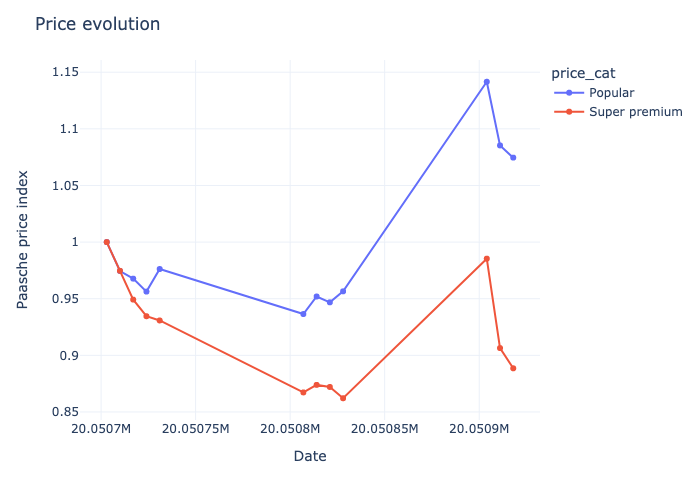
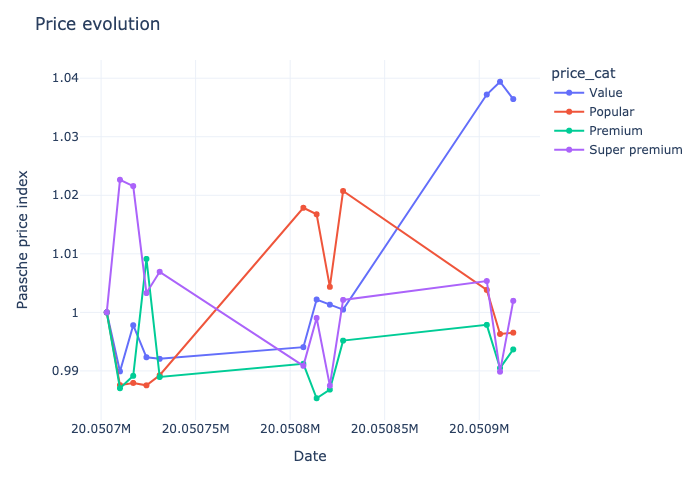
markdown files and playing around with pyblp

diff --git a/empirical_ps/plotting.py b/empirical_ps/plotting.py
@@ -5,34 +5,21 @@ import pyblp
 pio.templates.default = "plotly_white"
 import pandas as pd
 import numpy as np
+from plotly.subplots import make_subplots
+import plotly.graph_objects as go
 
 def plot_all(df):
-
-	numbots_by_prod_tot = df[["prodname", "numbot"]].groupby(["prodname"]).sum().sort_values("numbot", ascending = False).reset_index()
-	n_prods = numbots_by_prod_tot.shape[0]
-
-	fig = px.bar(numbots_by_prod_tot, x = "prodname", y = "numbot", title = f"Long tail of wines with few sales, and a few super sellers <br><sup>Total number of products: {n_prods}</sup>").update_layout(xaxis_title = "Wine variety", yaxis_title = "Total number of bottles sold in data")
-	fig.update_xaxes(visible=True, showticklabels=False)
-	fig.write_image("figures/bottles_by_prod.png")
-
-	# Volumes
-	date_store = df[["numbot", "storenum", "date"]].\
-	groupby(["date", "storenum"]).sum().reset_index()
-
-	fig = px.box(date_store, x = "date", y = "numbot").\
-	update_layout(xaxis_title = "Date", yaxis_title = "Bottles sold")
-	
-	fig.write_image("figures/bottles_time.png")
-
+	# Price distribution
+	df["price"] = df["p"]
+	fig_lnp = px.histogram(df, x="lnprice").\
+	update_layout(xaxis_title = "Log Price", yaxis_title = "Count")
+	fig_p = px.histogram(df, x="price").\
+	update_layout(xaxis_title = "Price", yaxis_title = "Count")
+	fig_lnp.write_image("figures/log_price_hist.png")
+	fig_p.write_image("figures/price_hist.png")
 
 	# Price trend
-	df["price"] = df["p"] * df["fx"]
-	df["lnprice"] = np.log(df["price"])
-	fig = px.histogram(df, x="lnprice").\
-	update_layout(xaxis_title = "Log Price", yaxis_title = "Count", title = "Two broad price categories")
-	
-	fig.write_image("figures/log_price_hist.png")
-	df["price_cat"] = pd.cut(df.lnprice, bins = 2, labels = ["Popular", "Super premium"])
+	df["price_cat"] = pd.cut(df.price, bins = 4, labels = ["Value", "Popular", "Premium", "Super premium"])
 	df["sales"] = df["price"] * df["numbot"]
 	df_time_price = df.groupby(["date", "price_cat"]).sum()
 	df_time_price["avg_price"] = df_time_price["sales"] / df_time_price["numbot"]
@@ -46,6 +33,25 @@ def plot_all(df):
 	fig = px.line(df_time_price, x="date", y="avg_price_index", color='price_cat', markers = True).\
 	update_layout(xaxis_title = "Date", yaxis_title = "Paasche price index", title = "Price evolution")
 	fig.write_image("figures/price_index.png")
+
+	# Quantities
+
+	numbots_by_prod_tot = df[["prodname", "numbot"]].groupby(["prodname"]).sum().sort_values("numbot", ascending = False).reset_index()
+	n_prods = numbots_by_prod_tot.shape[0]
+
+	fig = px.bar(numbots_by_prod_tot, x = "prodname", y = "numbot", title = f"Long tail of wines with few sales, and a few super sellers <br><sup>Total number of products: {n_prods}</sup>").update_layout(xaxis_title = "Wine variety", yaxis_title = "Total number of bottles sold in data")
+	fig.update_xaxes(visible=True, showticklabels=False)
+	fig.write_image("figures/bottles_by_prod.png")
+
+	# Volumes
+	date_store = df.reset_index()[["numbot", "storenum", "date"]].\
+	groupby(["date", "storenum"]).sum().reset_index()
+
+	fig = px.box(date_store, x = "date", y = "numbot").\
+	update_layout(xaxis_title = "Date", yaxis_title = "Bottles sold")
+	
+	fig.write_image("figures/bottles_time.png")
+	
 	return
 
 

diff --git a/empirical_ps/estimate_funcs.py b/empirical_ps/estimate_funcs.py
@@ -1,0 +1,43 @@
+df["product_ids"] = df["idcode"]
+df["prices"] = df["price"]
+df["shares"] = df["mshare"]
+df["market_ids"] = df.index.get_level_values('date').astype(str) +"_"+ df.index.get_level_values('storenum').astype(str)
+df["demand_instruments0"] = df["price"]
+
+# Specification 3 & 4, product characteristics
+logit_formulation = pyblp.Formulation('prices + proof + variet')
+problem = pyblp.Problem(logit_formulation, df)
+logit_results_characteristics = problem.solve()
+
+
+# Specification 5, fixed effects
+logit_formulation = pyblp.Formulation('prices', absorb='C(product_ids)')
+problem = pyblp.Problem(logit_formulation, df)
+logit_results_fe = problem.solve()
+
+# Specification 6, BLP styled instruments
+df["demand_instruments0"] = df["proof"].groupby(level = [0,1]).sum() - df["proof"]
+df["demand_instruments1"] = df["merlot"].groupby(level = [0,1]).sum() - df["merlot"]
+logit_formulation = pyblp.Formulation('prices')
+problem = pyblp.Problem(logit_formulation, df)
+logit_results_blp = problem.solve()
+
+# Specification 7, countries as nests
+
+df["nesting_ids"] = df["national"]
+groups = df.groupby(["market_ids", "nesting_ids"])
+df["demand_instruments20"] = groups["shares"].transform(np.size)
+nl_formulation = pyblp.Formulation('0 + prices')
+problem = pyblp.Problem(nl_formulation, df)
+nl_results = problem.solve(rho = 0.7)
+
+def extract_estimation_results(results, path):
+	''' Calculate elasticities, markups, marginal costs, and create plots
+	results : a ProblemResults object from pyblp package
+	'''
+	elasticities = results.compute_elasticities()
+	mean_elasticities = results.extract_diagonal_means(elasticities)
+	aggregates = results.compute_aggregate_elasticities(factor=0.1)
+	costs = results.compute_costs() # Note: Either firm IDs or an ownership matrix must have been specified.
+	markups = results.compute_markups(costs=costs)
+	return

diff --git a/empirical_ps/empio_main.py b/empirical_ps/empio_main.py
@@ -15,18 +15,23 @@ import pyblp
 
 # Store x time is a 'market'
 # What about outside option here?
+### TMP ############################################
 
+
+#TMP end ############################################
 # 0. Load data
 
 df = pd.read_excel("data/wine_ps2.xls")
 df = df.dropna()
+df = df.set_index(["idcode", "storenum", "date"])
+
 
 # 1. Descriptive statistics
 # Number of products
 plot_all(df)
 
 # Based on plots, do some data filtration
-df["price"] = df["p"] * df["fx"]
+df["price"] = df["p"] / df["fx"]
 df["lnprice"] = np.log(df["price"])
 df = df[df["lnprice"] < 6]
 
@@ -83,13 +88,13 @@ def berry94_est(X, Y):
 	reg = LinearRegression().fit(X, Y) # Estimate beta and alpha through eq. 14 Berry 1994
 
 	alpha = reg.coef_[price_var_loc]
-	return(alpha)
+	return(alpha, reg.coef_)
 
 X_vars = ["lnprice", "proof", "variet", "doc"]
 X = df.loc[:, df.columns.isin(X_vars)] 
 Y = df.loc[:, "delta_j"]
 
-b94_est = berry94_est(X, Y)
+b94_est, coefs = berry94_est(X, Y)
 np.savetxt("figures/b94_elas.csv", np.expand_dims(b94_est,0))
 
 # 4. Berry 1994, eq 31 (slighly before I think) Implied markups assuming MC are constant.

diff --git a/empirical_ps/main.md b/empirical_ps/main.md
@@ -1,0 +1,46 @@
+# Demand for Wine: Solutions to the Empirical Problem Set for Industrial Organization 2022
+*Solutions by Filip Mellgren*, `filip.mellgren@su.se`
+
+The problem set was solved using `python` and relies on the package `pyblp` by Christopher Conlon and Jeff Gortmaker.
+
+## Descriptive Statistics
+
+Since we want to estimate demand for wine, important variables in the dataset `wine_ps2.dta` include the price variabel `p`, which denotes the nominal price, and the quantity variable `numbot`. The unit of observation are `idcode`, which identifies a wine, `date`, which denotes a unit of time (presumably week), and `storenum`, which is a code identifying an individual store. `numbot` is consequenlty the number of bottles sold of a particular wine in a given store in a given point in time. In total, there are 31798 such observations, although I drop observations with NAs leaving me with 27189 observations. 
+
+We begin by plotting the distribution of this price variable:
+
+<img src="figures/price_hist.png" alt="price_dist" width="300"/>
+
+Since we have data over time, we continue by looking at time trends for four, broad, price categories. Here, I define the categories by creating equally ranged bins. A wine connoisseur might disagree with the bins, but they work for our purpose nontheless:
+
+<img src="figures/price_index.png" alt="price_trend" width="300"/>
+
+We note that the price tends to be rather stable over the time horizon. However, it is interesting to note how *Value* wines increase in price while *Popular* drops towards the end of the sample frame. 
+
+We proceed to look at the other key variable, `numbot`.
+
+<img src="figures/bottles_by_prod.png" alt="numbot_distr" width="300"/>
+
+This diagram shows us that wine sales follow something resembling a geometric distribution. That is, a few wines make up the bulk of sales and and most wines do not matter greatly for sales.
+
+We also look at the distribution of sales over time. Here, we consider the distribution of total sales over `storenum`.
+<img src="figures/bottles_time.png" alt="numbot_time" width="300"/>
+
+
+
+Generate a variable `lnprice = log(p)`. 
+
+## Demand estimation using naive regression
+
+
+
+## Demand estimation using discrete choice 
+
+There are several specifications for which we will repeat the exercise. 
+
+TODO: nest based on red/white?
+
+
+
+
+
